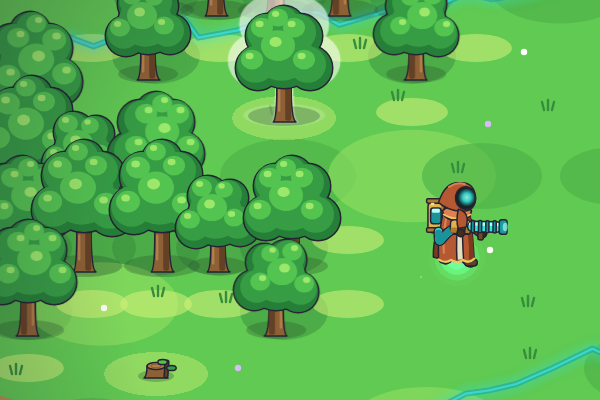
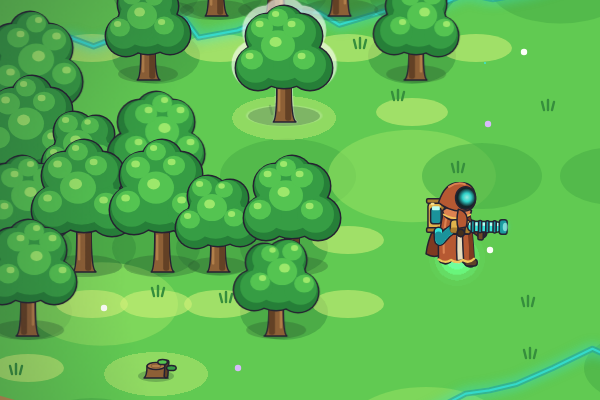
051 B.4: the glow is a fixed outline round each node; arrows sit lower over small nodes
Claude-Session: https://claude.ai/code/session_019ig8gw5L4yavYF6tvwkS5C

diff --git a/src/data/targets.ts b/src/data/targets.ts
@@ -48,8 +48,8 @@ export const COLLECT_FROM: Readonly<Record<string, { enemy: string }>> = { 'husk
  */
 export const TARGET_LIFT: Readonly<Record<TargetKind, number>> & { door: number; nodeTypes: Readonly<Record<string, number>> } = {
   tubeStone: 40,
-  nodes: 44,
-  collect: 44,
+  nodes: 34,
+  collect: 34,
   pack: 46,
   room: 52,
   // Just over the bowl's rim, under the E prompt's cap (012), which floats over the machine behind.
@@ -68,7 +68,7 @@ export const TARGET_LIFT: Readonly<Record<TargetKind, number>> & { door: number;
   boss: 86,
   /** The door to another room (the foundry's, or its stairs outside). */
   door: 40,
-  nodeTypes: { tree: 70, rubble: 44, reeds: 40, 'ley-vein': 44, 'rime-outcrop': 46, 'ley-iron-seam': 44, 'resin-seep': 40 },
+  nodeTypes: { tree: 70, rubble: 30, reeds: 36, 'ley-vein': 34, 'rime-outcrop': 36, 'ley-iron-seam': 32, 'resin-seep': 30 },
 };
 
 /**

diff --git a/src/data/art/nodes.ts b/src/data/art/nodes.ts
@@ -226,13 +226,13 @@ export const NODE_SPRITES_VECTOR: readonly VectorSprite[] = Object.entries(NODE_
 export const NODE_DAPPLE = { nodeId: 'tree', rx: 26, ry: 11, rise: 2, color: 'sun', alpha: 0.4 } as const;
 
 /**
- * 051 (B.4): a harvestable node's glow: its own frame filled `color`, `scale` times its size round its base, behind it,
+ * 051 (B.4): a harvestable node's glow: its own frame filled `color`, `outline` px bigger each side round its base, behind it,
  * breathing between the alphas once per `periodMs`; and now and then (every `sparkle.everyMs`, each node at its own
  * offset) a glint twinkles somewhere on it, over `sparkle.ms`. A used-up node shows neither until it regrows.
  */
 export const NODE_GLOW = {
   color: 'snow',
-  scale: 1.14,
+  outline: 2,
   alpha: { min: 0.45, max: 0.8 },
   periodMs: 2000,
   sparkle: { everyMs: 2600, ms: 650, peak: 1.15 },

diff --git a/src/render/NodeView.ts b/src/render/NodeView.ts
@@ -94,7 +94,7 @@ export class NodeView {
     }
     const G = NODE_GLOW;
     if (view.glow.frame.name !== frame) showFrame(view.glow, frame);
-    const k = view.image.scaleX * G.scale;
+    const k = view.image.scaleX * (1 + (2 * G.outline) / Math.max(1, view.image.displayWidth));
     const breath = (Math.sin((this.time / G.periodMs) * Math.PI * 2 + n.id) + 1) / 2;
     view.glow.setScale(k).setY(bottom).setDepth(bottom - 0.5).setAlpha(G.alpha.min + (G.alpha.max - G.alpha.min) * breath);
     const S = G.sparkle;
